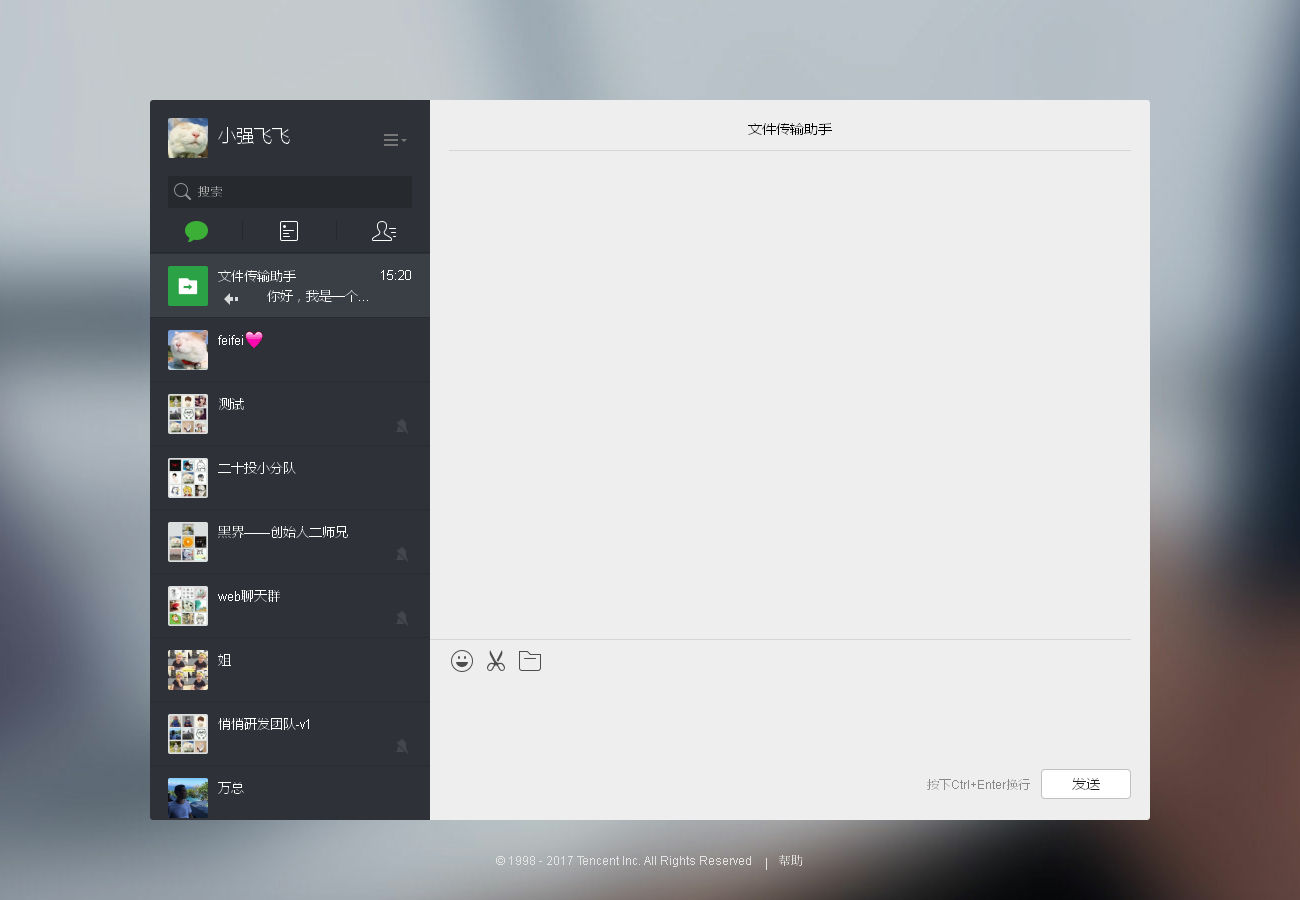
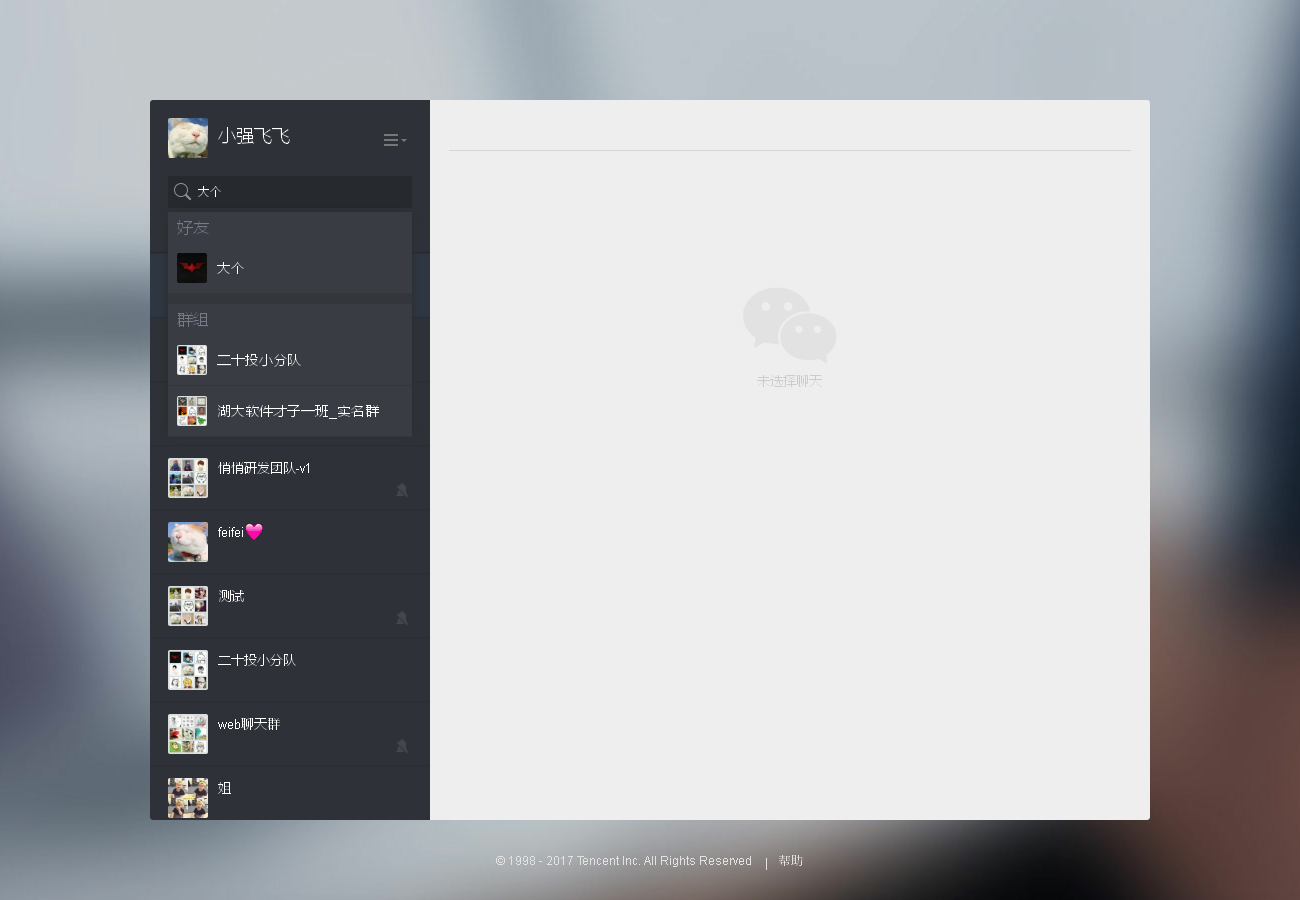
优化监听消息

diff --git a/index.js b/index.js
@@ -5,11 +5,11 @@ var WXDOM = require('./config/wxDom');
 var qrcode = require('./src/lib/qrcode');
 var message = require('/src/lib/message');
 
-
+// step1
 casper.start('https://wx.qq.com/');
 
 var initData = {
-    targetMessageElements: []
+    targetMessageElementsLength: 0
 };
 
 message.init(casper, WXDOM.CHAT_INPUT, WXDOM.CHAT_SEND);
@@ -21,6 +21,8 @@ console.log('正在加载网页...')
 //     _echo('\n' + msg);
 // }
 
+
+// step2
 //登录
 casper.then(function () {
     var ts = this;
@@ -48,12 +50,14 @@ casper.then(function () {
     
 });
 
+// step3
 casper.then(function () {
     this.waitWhileVisible(WXDOM.LOGIN_LOADING, function () {
         this.echo("加载最近聊天信息完毕！");
     })
 })
 
+// step4
 // 搜索目标微信号
 casper.then(function () {
     var ts = this;
@@ -65,24 +69,39 @@ casper.then(function () {
     });
 
     ts.waitForSelector(WXDOM.SEARCH_RESULT, function(){
-        ts.echo('已加载搜索结果：./static/img/SEARCH_RESULT.png');
-        ts.captureSelector('./static/img/SEARCH_RESULT.png', 'html');
         
-        if (ts.exists(WXDOM.SEARCH_RESULT_ONE)) {
-            ts.echo('搜索结果大于1个，点击进入第一个...', 'INFO');
-            ts.click(WXDOM.SEARCH_RESULT_ONE);
-            
-        } else {
+        ts.waitForSelector(WXDOM.SEARCH_RESULT_ONE, function(){
+            ts.echo('已加载搜索结果：./static/img/SEARCH_RESULT.png');
+            ts.click(WXDOM.SEARCH_RESULT_ONE+':first-child');
+            ts.captureSelector('./static/img/SEARCH_RESULT.png', 'html');
+        }, function(){
             ts.echo('搜索结果为零，请确认目标微信号昵称是否在您的联系人列表中...', 'ERROR');
+            ts.captureSelector('./static/img/SEARCH_RESULT.png', 'html');
             ts.exit();
-        }
+        }, 10*1000)
 
-        setTimeout(function () {
-            ts.captureSelector('./static/img/CLICK_SEARCH_RESULT.png', 'html');
-        }, 300)
+        // this.wait(4000, function(){
+
+        //     ts.echo('已加载搜索结果：./static/img/SEARCH_RESULT.png');
+        //     ts.captureSelector('./static/img/SEARCH_RESULT.png', 'html');
+            
+        //     if (ts.exists(WXDOM.SEARCH_RESULT_ONE)) {
+        //         ts.echo('搜索结果大于1个，点击进入第一个...', 'INFO');
+        //         ts.click(WXDOM.SEARCH_RESULT_ONE);
+                
+        //     } else {
+        //         ts.echo('搜索结果为零，请确认目标微信号昵称是否在您的联系人列表中...', 'ERROR');
+        //         // ts.exit();
+        //     }
+
+        //     setTimeout(function () {
+        //         ts.captureSelector('./static/img/CLICK_SEARCH_RESULT.png', 'html');
+        //     }, 4000)
+        // })
     })
 });
 
+// step5
 // 操作输入框
 casper.then(function () {
     var ts = this;
@@ -95,8 +114,8 @@ casper.then(function () {
         // console.log(initData.targetMessageElements.length);
 
         ts.echo('已加载输入框...');
-        message.send(CONST.HELLO_WORLD + '\n 现在的时间是：'+new Date().toLocaleString());
-        ts.echo('发送打招呼消息...');
+        message.send(CONST.HELLO_WORLD + '\n\r现在的时间是：'+new Date().toLocaleString());
+        ts.echo('已发送欢迎语...');
         // ts.sendKeys(WXDOM.CHAT_INPUT, CONST.HELLO_WORLD + '\n 现在的时间是：'+new Date().toLocaleString());
         // ts.click(WXDOM.CHAT_SEND);
 
@@ -105,38 +124,49 @@ casper.then(function () {
         // }, 100)
 
     });
-    
-    // 监听新消息
+
+})
+
+// step6
+casper.then(function(){
+    var ts = this;
+     // 监听新消息
     function loopListenNewMassage(){
         ts.echo('执行监听新消息：loopListenNewMassage()...')
         ts.unwait();
         ts.waitFor(function checkMsgChange() {
             // ts.echo('开始监听新消息：checkMsgChange()...')
-            return ts.evaluate(function (MSG_SELECTOR,targetMessageElements) {
-                return document.querySelectorAll(MSG_SELECTOR).length - targetMessageElements.length >= 2;
-            }, WXDOM.MSG, initData.targetMessageElements);
+            return ts.evaluate(function (MSG_SELECTOR,targetMessageElementsLength) {
+                return document.querySelectorAll(MSG_SELECTOR).length - targetMessageElementsLength >= 1;
+            }, WXDOM.MSG, initData.targetMessageElementsLength);
         }, function then() {
-            initData.targetMessageElements = ts.evaluate(function ( MSG_SELECTOR ) {
-                return document.querySelectorAll(MSG_SELECTOR)
+            initData.targetMessageElementsLength = ts.evaluate(function ( MSG_SELECTOR ) {
+                return document.querySelectorAll(MSG_SELECTOR).length
             }, WXDOM.MSG);
 
-            var len = initData.targetMessageElements.length;
-            ts.echo('当前对方消息数量：' + len);
-            ts.echo(utils.dump(initData.targetMessageElements));
-            var newMsgContent = initData.targetMessageElements[len-1].innerHTML;
+            // var len = initData.targetMessageElements.length;
+            ts.echo('当前对方消息数量：' + initData.targetMessageElementsLength);
+            
+            var newMsgContent = ts.evaluate(function ( MSG_SELECTOR ) {
+                var el = document.querySelectorAll(MSG_SELECTOR);
+                var len = el.length;
+                return el[len-1].innerHTML;
+            }, WXDOM.MSG);
 
             ts.echo('监听到新消息，正在回复...');
-            message.send('你发送的消息："' + newMsgContent + '"\n发送时间：' + new Date().toLocaleString());
+            message.send('您发送的消息："' + newMsgContent + '"\n\r发送时间：' + new Date().toLocaleString());
             ts.captureSelector('./static/img/newMsgContent.png', 'html');
             ts.echo('已回复...');
 
-            loopListenNewMassage();
+            // ts.bypass(6);
+            this.wait(10, function () {
+                loopListenNewMassage();
+            })
 
         }, function timeout() { }, Number.POSITIVE_INFINITY);
     }
 
     loopListenNewMassage();
-
 })
 
 
@@ -146,6 +176,6 @@ casper.then(function () {
 // });
 
 casper.run(function () {
-    this.echo('程序已退出.');
+    this.echo('执行完毕，程序退出.');
     this.exit();
 });

diff --git a/config/const.js b/config/const.js
@@ -1,6 +1,8 @@
+//  var emotionList = ['微笑', '撇嘴', '色', '发呆', '得意', '流泪', '害羞', '闭嘴', '睡', '大哭', '尴尬', '发怒', '调皮', '呲牙', '惊讶', '难过', '酷', '冷汗', '抓狂', '吐', '偷笑', '愉快', '白眼', '傲慢', '饥饿', '困', '惊恐', '流汗', '憨笑', '大兵', '奋斗', '咒骂', '疑问', '嘘', '晕', '折磨', '衰', '骷髅', '敲打', '再见', '擦汗', '抠鼻', '鼓掌', '糗大了', '坏笑', '左哼哼', '右哼哼', '哈欠', '鄙视', '委屈', '快哭了', '阴险', '亲亲', '吓', '可怜', '菜刀', '西瓜', '啤酒', '篮球', '乒乓', '咖啡', '饭', '猪头', '玫瑰', '凋谢', '示爱', '爱心', '心碎', '蛋糕', '闪电', '炸弹', '刀', '足球', '瓢虫', '便便', '月亮', '太阳', '礼物', '拥抱', '强', '弱', '握手', '胜利', '抱拳', '勾引', '拳头', '差劲', '爱你', 'NO', 'OK', '爱情', '飞吻', '跳跳', '发抖', '怄火', '转圈', '磕头', '回头', '跳绳', '挥手', '激动', '街舞', '献吻', '左太极', '右太极', '嘿哈', '捂脸', '奸笑', '机智', '皱眉', '耶', '红包', '鸡'];
+
 module.exports = {
-    'TARGET_NICK': '文件传输助手',
+    'TARGET_NICK': '大个',
 
     //打招呼消息
-    'HELLO_WORLD': '[呲牙]你好，我是一个微信机器人。'
+    'HELLO_WORLD': '[呲牙]你好。\n\r机器人[瓢虫]小强[瓢虫]已启动...'
 }

diff --git a/config/wxDom.js b/config/wxDom.js
@@ -6,7 +6,8 @@ module.exports = {
     'LOGIN_LOADING': '.chat_list .chat_list .ico_loading',
     'SEARCH_INPUT': '.frm_search',
     'SEARCH_RESULT': '.recommendation',
-    'SEARCH_RESULT_ONE': '.recommendation .contact_item.on',
+    'SEARCH_RESULT_ONE': '.recommendation .contact_item',
+    'SEARCH_RESULT_FRIEND': '.recommendation .nickname',
 
     'CHAT_NO_SELECT': '.chat_bd .web_wechat_nomes_icon',
     //输入框
@@ -14,5 +15,5 @@ module.exports = {
     'CHAT_SEND': '.btn.btn_send',
 
     //messages
-    'MSG': '.me .js_message_plain'
+    'MSG': '.you .js_message_plain'
 }
